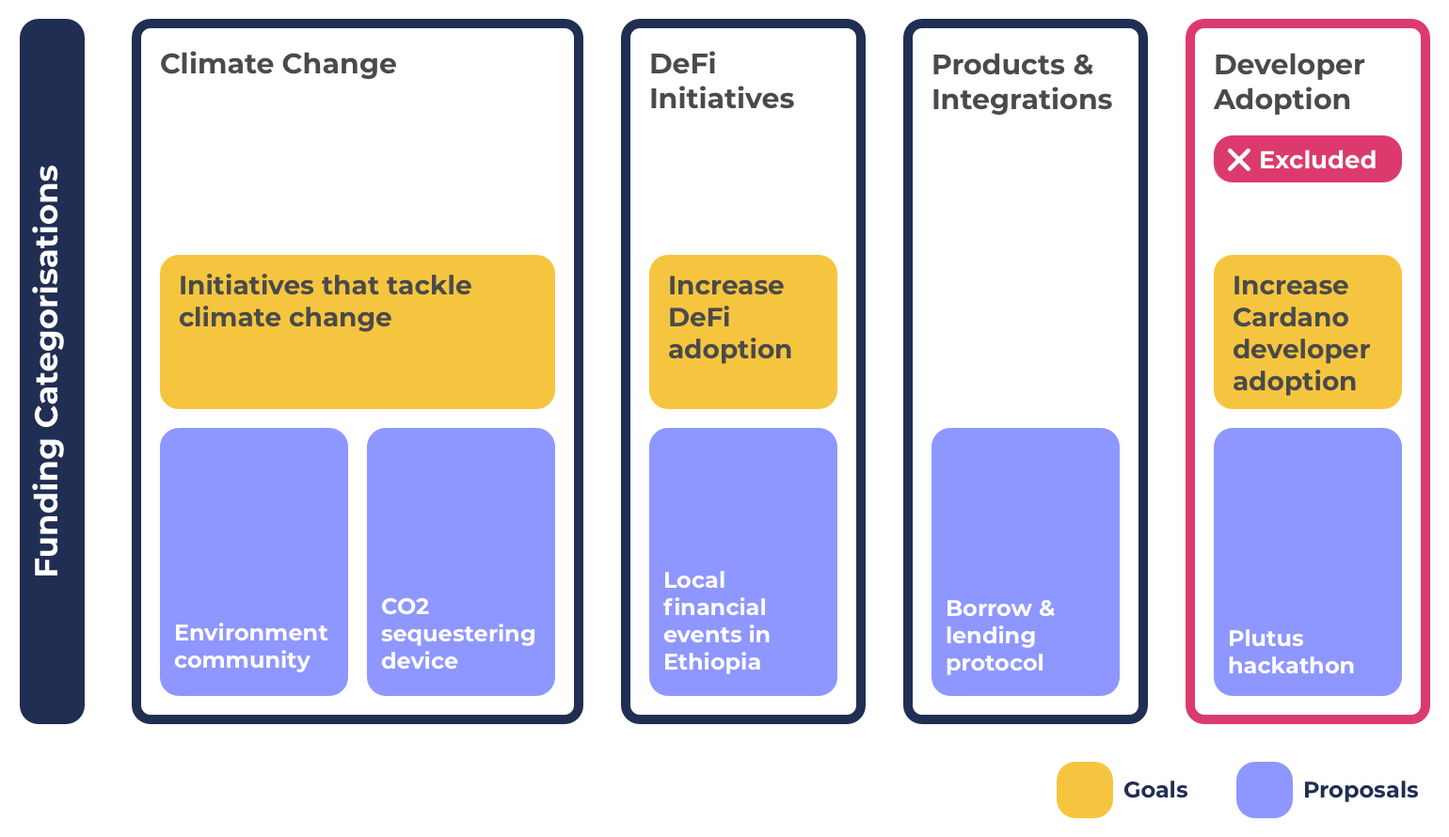
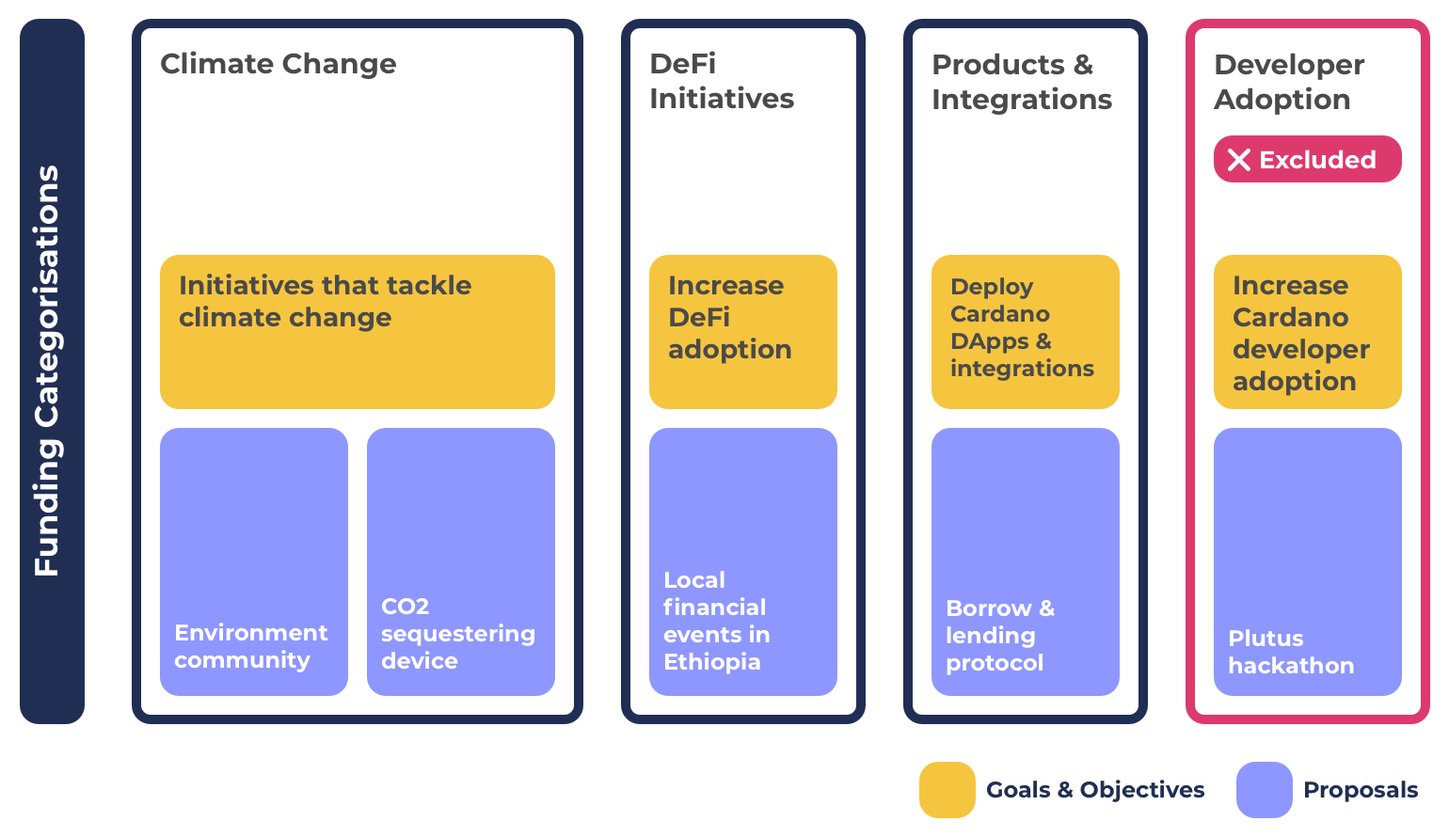
GitBook: [#35] No subject

Changed region(s): [[0.6234, 0.3034, 0.7792, 0.5157], [0.6234, 0.9101, 0.8416, 1.0]]

diff --git a/categorisation-goals-and-objectives/goals-and-objectives-with-challenge-settings.md b/categorisation-goals-and-objectives/goals-and-objectives-with-challenge-settings.md
@@ -6,32 +6,32 @@ description: >-
 
 # Goals & Objectives With Challenge Settings
 
-Challenge settings allows for any form of funding categorisation. This means that categorisations can range from being broad through to specific proposal type groupings or be goal or objective focussed categorisations.
+Challenge settings allows for any form of funding categorisation. This means that categorisations can be cover broad to specific proposal type groupings. They could also be goal or objective focussed categorisations.
 
-The flexibility provided by challenge settings results in multiple problems. Challenge settings fail in promoting categorisation that is simple, efficient, flexible and scalable. The reason these issues exist in challenge settings is that the process promotes [specific](../categorisation-analysis/broad-vs-specific-categorisation.md), [competitive](../categorisation-analysis/inclusive-vs-competitive-categorisation.md) and [changing](../categorisation-analysis/recurring-vs-changing-categorisation.md) categorisation.
+The flexibility provided by challenge settings results in multiple problems. Challenge settings are not effectively at promoting categorisation that is simple, efficient, flexible and scalable. The cause of these issues are due to the challenge setting process promoting [specific](../categorisation-analysis/broad-vs-specific-categorisation.md), [competitive](../categorisation-analysis/inclusive-vs-competitive-categorisation.md) and [changing](../categorisation-analysis/recurring-vs-changing-categorisation.md) categorisation.
 
 
 
 **Challenge settings promotes changing, competitive and specific categorisation**
 
-* **Changing** - Objectives can be completed or increase or decrease in priority each funding round. Objective based categorisation leads to categorisation that is always changing.
-* **Competitive** - There are a large amount of potential objectives that could exist and prioritised by the community. Objectives would need to compete to have access to a fixed amount of funding available.
-* **Specific** - Many objectives are created to solve certain problems or add value to the ecosystem. This leads to having more specific categorisation to target those objectives. This is not true for all objectives, some could also be broad such as having a simple objective of deploying new DApps and integrations on the Cardano blockchain.
+* **Changing** - Objectives can be completed or can increase or decrease in priority each funding round. Objective based categorisation leads to categorisation that is always changing.
+* **Competitive** - There are a large amount of potential goals and objectives that could exist that need to be prioritised by the community. Objectives would need to compete to have access to a fixed amount of funding available.
+* **Specific** - Achieving goals by setting specific objectives helps to solve certain problems and add value to the ecosystem. This approach leads to increasing the number of specific categorisations to target those objectives. This is not true for all categorisations, some could just focus on broad goals. One example could be the goal of deploying new DApps and integrations on the Cardano blockchain.
 
 
 
 **Advantages**
 
-* **Easier proposal comparisons** - By having categorisations focussed on goals or objectives it makes it easier to compare and decide between proposals that all focus on one specific objective. This comparison between proposals with the same goal or objective could also be done in category based funding categorisation and this would be achieved at the view layer by filtering proposals based on the goal or objectives. The only difference is that categories can are larger in scope which means voters would also need to decide to compare and decide on proposals that have different goals or objectives as well.
-* **Guaranteed goal or objective funding** - Goal and objective based categorisations create a guarantee that the selected goal or objectives will have funding distributed to proposals aimed at that specific objective. Although this can be a positive outcome there are also numerous negative situations depending on the proposals that get submitted and their quality and also what proposals are excluded due to the categorisations selected.
+* **Easier proposal comparisons** - By having categorisations focussed on goals or objectives it makes it easier to compare and decide between proposals that all focus on one specific objective. This comparison between proposals with the same goal or objective could also be done in category based funding categorisation and this would be achieved at the view layer by filtering proposals based on the goal or objectives. The only difference is that funding categories are larger in scope which means voters would also need to compare and decide on proposals that have different goals or objectives.
+* **Guaranteed goal or objective funding** - Goal and objective based categorisations create a guarantee that the selected goal or objectives will have funding distributed to proposals aimed at that specific goal or objective. Although this can be a positive outcome there are also numerous negative situations depending on the proposals that get submitted and their quality.
 
 
 
 **Issues**
 
-* **Inflexible** - Funding categorisation that is focussed on goals or objectives is less flexible to sudden changes. Funding categorisation cannot suddenly change midway through a funding round. A new emerging goal or objective during a funding round would have difficulty in supporting proposals relevant to the new goal or objective if proposals could not have been submitted due to the categorisations available.
-* **Restrictive & exclusionary** - There are potentially hundreds of goals and hundreds or thousands of potential objectives that could exist at a given moment. Different values, perspectives and interpretations from the community lead to differences in what those goals and objectives should be and how they could be achieved. There is a limited amount of funding available in each funding round. Goal and objective based funding categorisation can only cater for a number of those goals or objectives which results in giving the voter less proposal options to choose from. Voters would also need to accept the fact that the proposals which can’t be submitted due to this exclusionary approach may actually be more impactful than the ones being allowed due to the goal or objective categorisation mandates. Proposers in an exclusionary funding environment aren’t given the opportunity to present ideas and innovation which may have offered a more compelling idea to the voter.
-* **Increased risks** - Mandates on where funding is made available based on goals or objectives increases the risks of having categorisation where proposals do not turn up to solve those specific objectives. Another bad outcome is having a number of proposals submitted that are of an average to low quality. Some objectives may even have situations where the solutions are not feasible in the short term. In these scenarios funding could have been better directed to other higher quality proposals focussed on different objectives.
+* **Lower flexibility** - Funding categorisation that is focussed on goals or objectives is less flexible to sudden changes. Funding categorisation cannot suddenly change midway through a funding round. A new emerging goal or objective during a funding round would have difficulty in supporting relevant proposals if they could not have been submitted due to the categorisations available. There is also a risk that an objective is achieved midway through a funding round which is an issue as that funding could have been better reallocated if the funding categorisation was more broad focussed and flexible.
+* **More restrictive & exclusionary** - There are potentially hundreds of goals and hundreds or thousands of potential objectives that could exist at a given moment. Different values, perspectives and interpretations from the community lead to differences in what those goals and objectives should be and how they could be achieved. There is a limited amount of funding available in each funding round. Goal and objective based funding categorisation can only cater for a number of those goals or objectives which results in giving the voter less proposal options to choose from. Voters would also need to accept the fact that the proposals which can’t be submitted due to this exclusionary approach may actually be more impactful than the ones being allowed due to the goal or objective categorisation mandates. Proposers in an exclusionary funding environment aren’t given the opportunity to present ideas and innovation which may have offered a more compelling idea to the voter.
+* **Increased risk of poor outcomes** - Mandates on where funding is made available based on goals or objectives increases the risks of having categorisation where proposals do not turn up to solve those specific objectives. Another bad outcome is having a number of proposals submitted that are of an average to low quality. Some objectives may even have situations where the solutions are not feasible in the short term. In these scenarios funding could have been better directed to other higher quality proposals focussed on different objectives.
 * **Higher complexity** - Funding categorisation tied to goal or objective setting means there is a constant need to review ecosystem wide information to create sensible and well informed justifications on which goal and objective based categorisations to suggest and vote for. The more goal and objective based funding categorisations used the less funding that can be distributed between them from a fixed available amount. This massively increases the complexity of determining which categorisations to include and exclude and what budget weightings should be applied to each of the categorisations. Goal and objective based categorisation mean much more effort for governance and stakeholders is needed to manage the process. By attaching funding categorisation to goals and objectives the proposing challenge team must determine a suitable budget weighting or instead the community would need to vote on what budget should be applied. This complexity increases as the number of categorisations increases.
 * **Poor scalability** - Objectives set by the community will be ever changing between funding rounds. Forcing objectives into funding categorisations makes it far harder to scale and automate the categorisations as they are less predictable and not based on usage of the process. Objectives not well understood with historical data mean more manual effort to determine a suitable budget weighting for the categorisation is needed which makes it more difficult to scale effectively.
 

diff --git a/categorisation-goals-and-objectives/goals-and-objectives-with-funding-categories.md b/categorisation-goals-and-objectives/goals-and-objectives-with-funding-categories.md
@@ -25,19 +25,19 @@ Using an [independent goal & objective setting process](independent-goal-and-obj
 **Funding categories promote recurring, inclusive and broad categorisation**
 
 * **Recurring** - Categories based on topic areas or that fulfil a certain function can be defined upfront and used in each funding round. This makes them a suitable choice for recurring categorisation. Categories could still change but only need updating when it is necessary.
-* **Inclusive** - Categories that group proposals by type can more easily be inclusive to all forms of idea and innovation. Funding categories have been designed to be suitable for being an inclusive form of funding categorisation.
+* **Inclusive** - Categories that group proposals by type can more easily be inclusive to all forms of idea and innovation. Funding categories have been designed to be suitable for being an inclusive form of funding categorisation**.**
 * **Broad** - Topic area and function focussed categorisation is well suited to offering broad categorisation that invites multiple proposal types. Categorisation could also be made more specific on what types are included however this comes at an increase cost of complexity around determining budget weighting for each categorisation and makes the categorisation less flexible to dynamic changes.
 
 
 
 **Advantages**
 
-* **Flexible** - Categories are flexible to changing goals and objectives as the categorisation doesn’t specify what must proposals must focus on. This allows the community to update or add new objectives dynamically as they emerge and will help improve the speed in which proposals of higher priority can be identified and receive funding.
+* **Dynamically changing** - Categories are flexible to dynamically changing goals and objectives as the categorisation doesn’t specify what must proposals must focus on. This allows the community to update or add new objectives dynamically at anytime as they emerge. This improves the speed in which proposals of higher priority can be identified and supported in the funding process.
 * **Simple** - Usage of recurring categories means no justification is needed every funding round to decide which categorisations to include. This approach removes the complexity of voters  needing to decide which categorisations to include and exclude in each funding round. Instead voters would use an [independent goal & objective setting process](independent-goal-and-objective-setting-process.md) separate from the funding categorisation process. This makes it far less complex as it would remove the decisions around budget weighting and how to handle the inclusion and exclusion of certain categorisations.
-* **Low stakeholder and governance effort** - Instead of having effort around justifying categorisations, assessing and voting on them every funding round the community would only need to put effort into the budget weightings that go into each category. As an example if the community had a number of objectives to do with improving the developer ecosystem and a number of proposals previously submitted in that categorisation the community would be able to take that information and vote on increasing the budget weighting of the ‘Development & Infrastructure’ category. By separating objective setting from funding categorisation the community reduces the effort involved in justifying and thinking through the ramifications of including and excluding certain categorisations that focus on objectives that can often change quickly.
-* **Efficient** - By using an [independent goal & objective setting process](independent-goal-and-objective-setting-process.md) the community can quickly submit and vote on different goals and objectives in isolation and know that their action won’t cause any negative implications on the funding categorisation process. Allowing the community to do this at their own convenience with low friction makes the goal & objective setting process more efficient for the end user.
-* **Less risky** - Having categories that allow for a range of proposal types with different competing objectives. This makes it less risky for situations where there are no proposals for a given objective or goal turn up or alternatively there is only a number of proposals that are of poor quality. Broader funding categories not focussed on specific goals or objectives will reduce the risk of these situations and give the voter more choice.
-* **Healthy competition with maximum voter options** - It is easy for categories to be inclusive of all forms of idea and innovation. This means the voters can be given the maximum amount of choice and the broad categorisation will help create healthy competition between a number of different proposals.
+* **Lower stakeholder and governance effort** - Instead of having effort around justifying categorisations, assessing and voting on them every funding round the community would only need to put effort into the budget weightings that go into each category. As an example if the community had a number of objectives to do with improving the developer ecosystem and a number of proposals previously submitted in that categorisation the community would be able to take that information and vote on increasing the budget weighting of the ‘Development & Infrastructure’ category. By separating objective setting from funding categorisation the community reduces the effort involved in justifying and thinking through the ramifications of including and excluding certain categorisations that focus on objectives that can often change quickly.
+* **Increases potential engagement** - By using an [independent goal & objective setting process](independent-goal-and-objective-setting-process.md) the community can quickly submit and vote on different goals and objectives in isolation. Their action won’t cause any negative implications on the funding categorisation process and only means sharing their opinion on what is highest priority for them. Allowing the community to do this at their own convenience with low friction makes the goal & objective setting process maximises the opportunity for the community to get engaged with this process if they want to be involved.
+* **Less easy to break** - Having categories that allow for a range of proposal types with different competing objectives. This makes it less risky and easy to break for situations where there are no proposals for a given objective or goal turn up or alternatively there is only a number of proposals that are of poor quality. Broader funding categories not focussed on specific goals or objectives will reduce the risk of these situations and give the voter more choice.
+* **Increases competition between goals & objectives** - Removing goals and objectives outside of funding categorisation makes it easy for categories to be inclusive of all forms of idea and innovation. This means the voters will receive the maximum amount of choice to vote on. Broad categorisations will help create healthy competition between a number of different proposals.
 
 
 

diff --git a/historical-categorisation-analysis/funding-access-for-each-focus-area/README.md b/historical-categorisation-analysis/funding-access-for-each-focus-area/README.md
@@ -1,0 +1,77 @@
+---
+description: >-
+  Funding access for each focus area in previous funding rounds with examples of
+  using funding categories as an alternative
+---
+
+# Funding Access For Each Focus Area
+
+To understand the implications of using certain funding categorisation approaches one useful visualisation is for seeing what amount of funding was available to each of the proposal focus areas in each funding round.
+
+{% content-ref url="methodology-data-and-feedback.md" %}
+[methodology-data-and-feedback.md](methodology-data-and-feedback.md)
+{% endcontent-ref %}
+
+****
+
+### Funding access per focus area each funding round
+
+All of the following examples have a dedicated fund page that include observations on the categorisation for that funding round along with a comparison  with how a roughly equivalent categorisation outcome could have been achieved using funding categories.
+
+
+
+****[**Fund 9**](fund-9.md)
+
+![](<../../.gitbook/assets/fund-9-funding-access (2).png>)
+
+****[**Fund 8**](fund-8.md)
+
+![](../../.gitbook/assets/fund-8-funding-access.png)
+
+****[**Fund 7**](fund-7.md)
+
+![](<../../.gitbook/assets/fund-7-funding-access (2).png>)
+
+### Funding categories examples
+
+The usage of funding categories can achieve the same or better outcomes than the challenge setting approach but with far less complexity and also ensures that a wide range of proposals focus areas always have access to potential funding.
+
+For the following examples we ignore Catalyst contributors and Cardano contributors as these are new funding models that aren't focussed on the normal proposal model. Just comparing proposal based categorisations make this a like for like comparison for the historical examples. Nurturing Ideas & Teams is also ignored as it accepts all forms of idea and innovation so is not important for this comparison.
+
+
+
+**Equally balanced example**
+
+This can be achieved by splitting funding access into four 25% allocations for the each of the main categories of community & outreach, products & integrations, governance & identity and development & infrastructure.
+
+![](../../.gitbook/assets/categories-funding-access-example.png)
+
+**Development & Infrastructure focussed**
+
+What if the community thought the Development & Infrastructure categorisation of proposal focus areas needs more funding directed to that area as a priority and less on Community & Outreach and slightly less on Governance & Identity? To achieve this with funding categories the community would just need to vote on a higher percentage value for the Development & Infrastructure category and reduce the weighting in the other categories. For this example the community would only need to vote with four different values that add up to 100 to indicate the budget weighting preference. The aggregate of every voters budget weighting would determine the final weightings.
+
+![](../../.gitbook/assets/categories-funding-access-example-development.png)
+
+### Analysis
+
+**Higher complexity from overlapping categorisations**
+
+There are a number of examples where there are a mix of similar broad categorisations such as [Developer Ecosystem](https://app.ideascale.com/t/UM5UZBraj) and [Open Source Development Ecosystem](https://app.ideascale.com/t/UM5UZBqsx) and also specific categorisations such as [Gamers On - Chained](https://app.ideascale.com/t/UM5UZBqeS) which are a subset of broad categorisations such as [DApps and Integrations](https://app.ideascale.com/t/UM5UZBrBL). This makes the process more complex for proposers as they must determine where to put their proposal to maximise the chance of being funded. Assessors must determine whether proposals should or should not be in certain categorisations and voters in cases will need to look in numerous categorisations to compare similar proposal focus areas. One way of trying to resolve this complexity is to add rules and guidance as to how categorisations should be used in a number of events however this simply just adds extra unnecessary complexity.
+
+
+
+**Difficult to easily determine what proposals should be included**
+
+As the challenges are changing each round it became clear there is a constant complexity of working out which proposal focus areas can fit into which categorisations. It helps to highlight the importance of considering the trade offs of using recurring vs changing categorisation.
+
+
+
+**Well defined categories make it easier to extract useful statistics**
+
+The categorisations made it more difficult to create accurate percentages that would provide higher confidence as to what areas funding is being distributed towards. This again helped to highlight the benefits of using recurring categorisation. Using well defined categorisations would be effective in making it easier to see exactly what amount of funding is available for each proposal focus area. This allows the community to track over time to determine both what funding was available to different focus area of proposal and also what funded was actually distributed to each focus area. This data would be useful for further informing better budget weighting decisions.
+
+
+
+**Current challenge setting approach requires a lot of interpretation**
+
+To give an example of the interpretation that is needed one example could be that the "Cross collaboration" challenge states: "Number of events / workshops / sessions arranged with other communities" as a metric to measure. As hackathons are a form of event, proposers could interpret this as it being included in the categorisation. Another potential interpretation could be that educational resources could be included as well as they help facilitate similar outcomes as workshops. These examples are simple but important to highlight the added complexities of having changing categorisation where it leads to increased confusion when categorisations require more interpretation.

diff --git a/historical-categorisation-analysis/funding-access-for-each-focus-area/methodology-data-and-feedback.md b/historical-categorisation-analysis/funding-access-for-each-focus-area/methodology-data-and-feedback.md
@@ -1,0 +1,80 @@
+---
+description: Documentation for how the funding access percentages were derived
+---
+
+# Methodology, Data & Feedback
+
+Funding is split between a number of categorisations that currently get defined each funding round. Each categorisation represents a percentage of the total funding amount available. Each proposal can have funding access ranging from none, partial through to full access within each of those categorisations.
+
+
+
+### **Data**
+
+All the tagging data that was created for use in the images can be found here:
+
+[https://docs.google.com/spreadsheets/d/1XzlUhgkzE5NGBLa55wqJlgfm8YES3kJ6t5KgZAggtmE](https://docs.google.com/spreadsheets/d/1XzlUhgkzE5NGBLa55wqJlgfm8YES3kJ6t5KgZAggtmE/edit)
+
+****
+
+### **Feedback**
+
+Please provide any feedback or suggest any changes or improvements in the Telegram group -[https://t.me/catalystfundingcategories](https://t.me/catalystfundingcategories)
+
+
+
+### Approach
+
+**1. Tag proposal focus areas with a suitable colour depending on the access to funding**
+
+For each proposal focus area an estimate is given for the amount of funding access it has in each of the categorisations. These are estimates and are colour coded based on the following:
+
+* Red: Little to none
+* Orange: Low
+* Yellow: Moderate
+* Green: High
+
+
+
+**2. Add percentage value based on rough access**
+
+Based on the rough access guide above the following percentages are applied. As an example for the below percentages, if one categorisation had 5% total allocation and a proposal focus area had low access it would have 25% of that allocation 5% which would be 1.25% that would contribute towards the total funding access percentage for that proposal focus area. Percentage of categorisation funding access based on rough access tag given:
+
+* Red: 0%
+* Orange: 25%
+* Yellow: 50%
+* Green: 100%
+
+
+
+**3. Sum the percentage values for each proposal focus area from each categorisation to get a total funding access percentage across the total fund amount**
+
+The total access to funding for a proposal focus area is created by combining all the percentage values of access a proposal focus area has to each categorisation. The following results then determine the final colour for funding access:
+
+* Red: Little to none, 0-5%
+* Orange: Low, 5-15%
+* Yellow: Moderate, 15-25%
+* Green: High, 25-50%
+* Dark Blue: Very High, 50%+
+
+
+
+### Rough estimations
+
+The first step of tagging proposal focus areas with a suitable colour depending on the access to funding are rough estimations.
+
+
+
+**Categorisation interpretation**
+
+Challenge settings result in categorisations that often change in every funding round. This results in a collection of challenges that are worded differently. Some have limited information where as others may be more detailed. Some may be vague in specifying what should be included and others more precise. In many instances this can lead to complexities around interpretation such as follows:
+
+* [Cross-Chain Collaboration](https://app.ideascale.com/t/UM5UZBunq) - Cross chain collaboration looks to bridge over projects from other ecosystems to Cardano as encourage new redeployments onto Cardano. Cardano has native projects building only on Cardano, cross chain projects deploying on multiple chains and cross chains projects looking to migrate over to Cardano. Due to this wide range of project backgrounds that could exist the ones which are cross chain proposals only represent a subset of the proposal focus areas. For instance cross chain identity tools will only represent some of the proposal focus areas for ‘Identity tools & software’ as many of the identity tools & software can be built on Cardano itself without first being built elsewhere.
+* [Grow Africa, Grow Cardano](https://app.ideascale.com/t/UM5UZBuk1) - Location focussed challenges such as grow Africa, grow latin America or grow India result in a situation where only a subset of proposal focus areas can be submitted. These categorisations welcome any idea that is focussed on solutions and initiatives in that given location. This means that the categorisation is broad in the terms of the proposal focus areas however the location focus also means only a subset of the total amount could be submitted. As an example any efforts for ‘Government outreach & engagement’ related proposals would only be able to be submitted for countries within Africa rather than other locations.
+
+
+
+**Estimation of proposal type coverage**
+
+When trying to determine what percentage of the proposal type is covered within a given categorisation there is a need to consider the breadth of what types of proposals could exist under the umbrella of that proposal type. An example of this includes:
+
+* Hackathons - Hackathons can exist for Plutus for core infrastructure, on top of community infrastructure solutions such as an API to build on their solutions or to integrate other software solutions that use Cardano. Hackathons can also be just for idea flow and trying out new ideas. Giving a high percentage for the hackathon proposal type for a categorisation means that all these different ideas should be viable. If they are not then a lower percentage should be given. As an example for [Cross-Chain Collaboration](https://app.ideascale.com/t/UM5UZBunq) the hackathons would be a subset of all potential hackathons as they would need to focus on the cross chain focus.

diff --git a/historical-categorisation-analysis/funding-access-for-each-focus-area/fund-8.md b/historical-categorisation-analysis/funding-access-for-each-focus-area/fund-8.md
@@ -1,16 +1,16 @@
 ---
-description: Fund 8 proposal types access to funding
+description: Fund 8 funding access for different focus areas
 ---
 
 # Fund 8
 
-### Funding access per proposal type
+### Funding access for different focus areas
 
-![](../../.gitbook/assets/fund-8-funding-access.png)
+![](<../../.gitbook/assets/fund-8-funding-access (1).png>)
 
 ### **Funding categories equivalent**
 
-After reviewing the [data covered in the methodology](methodology.md) for fund 8 a similar funding categorisation outcome could have been achieved with funding categories as an alternative categorisation approach by applying the following budget weightings:
+After reviewing the [data covered in the methodology](methodology-data-and-feedback.md) for fund 8 a similar funding categorisation outcome could have been achieved with funding categories as an alternative categorisation approach by applying the following budget weightings:
 
 * **Community & Outreach** - 15%
 * **Products & Integrations** - 32%
@@ -29,7 +29,7 @@ There were 22 categorisations in fund 8. This made it more difficult to understa
 
 **Overlapping categorisations**
 
-In many cases across the categorisations the proposal types could be submitted in multiple categorisations. This adds complexity and an amount of game theory of where proposals should submit their proposals to maximise their chance of success. Allowing for this behaviour does not mean the best proposals will be funded and can lead to exploitation of unused categorisations.
+In many cases across the categorisations certain types of proposals could be submitted in multiple categorisations. This adds complexity and an amount of game theory of where proposals should submit their proposals to maximise their chance of success. Allowing for this behaviour does not mean the best proposals will be funded and can lead to exploitation of unused categorisations.
 
 
 

diff --git a/historical-categorisation-analysis/funding-access-for-each-focus-area/fund-7.md b/historical-categorisation-analysis/funding-access-for-each-focus-area/fund-7.md
@@ -1,16 +1,16 @@
 ---
-description: Fund 7 proposal types access to funding
+description: Fund 7 funding access for different focus areas
 ---
 
 # Fund 7
 
-### Funding access per proposal type
+### Funding access for different focus areas
 
-![](../../.gitbook/assets/fund-7-funding-access.png)
+![](<../../.gitbook/assets/fund-7-funding-access (1).png>)
 
 ### **Funding categories equivalent**
 
-After reviewing the [data covered in the methodology](methodology.md) for fund 7 a similar funding categorisation outcome could have been achieved with funding categories as an alternative categorisation approach by applying the following budget weightings:
+After reviewing the [data covered in the methodology](methodology-data-and-feedback.md) for fund 7 a similar funding categorisation outcome could have been achieved with funding categories as an alternative categorisation approach by applying the following budget weightings:
 
 * **Community & Outreach** - 15%
 * **Products & Integrations** - 30%
@@ -23,7 +23,7 @@ After reviewing the [data covered in the methodology](methodology.md) for fund 7
 
 **Restrictive funding access**
 
-Fund 7 had far much more limiting access to funding for a number of proposal types. The funding categories equivalent achieves more access for all of the proposal type areas to a fairly significant degree. This could have helped with both competition and better variation of the proposals submitted to give the voter more options to choose from.
+Fund 7 had far much more limiting access to funding for a number of proposal focus areas. The funding categories equivalent achieves more access for all of the proposal focus areas to a fairly significant degree. This could have helped with both competition and better variation of the proposals submitted to give the voter more options to choose from.
 
 
 

diff --git a/SUMMARY.md b/SUMMARY.md
@@ -40,11 +40,11 @@
 
 ## Historical Categorisation Analysis
 
-* [Funding Access Per Proposal Type](historical-categorisation-analysis/funding-access-per-proposal-type/README.md)
-  * [Methodology, Data & Feedback](historical-categorisation-analysis/funding-access-per-proposal-type/methodology.md)
-  * [Fund 9](historical-categorisation-analysis/funding-access-per-proposal-type/fund-9.md)
-  * [Fund 8](historical-categorisation-analysis/funding-access-per-proposal-type/fund-8.md)
-  * [Fund 7](historical-categorisation-analysis/funding-access-per-proposal-type/fund-7.md)
+* [Funding Access For Each Focus Area](historical-categorisation-analysis/funding-access-for-each-focus-area/README.md)
+  * [Methodology, Data & Feedback](historical-categorisation-analysis/funding-access-for-each-focus-area/methodology-data-and-feedback.md)
+  * [Fund 9](historical-categorisation-analysis/funding-access-for-each-focus-area/fund-9.md)
+  * [Fund 8](historical-categorisation-analysis/funding-access-for-each-focus-area/fund-8.md)
+  * [Fund 7](historical-categorisation-analysis/funding-access-for-each-focus-area/fund-7.md)
 * [Categories & Previous Categorisations](historical-categorisation-analysis/categories-and-previous-categorisations.md)
 * [Previous Categorisations](historical-categorisation-analysis/previous-categorisations/README.md)
   * [All Previous Challenge Settings](historical-categorisation-analysis/previous-categorisations/all-previous-challenge-settings.md)

diff --git a/historical-categorisation-analysis/funding-access-for-each-focus-area/fund-9.md b/historical-categorisation-analysis/funding-access-for-each-focus-area/fund-9.md
@@ -1,16 +1,16 @@
 ---
-description: Fund 9 proposal types access to funding
+description: Fund 9 funding access for different focus areas
 ---
 
 # Fund 9
 
-### Funding access per proposal type
+### Funding access for different focus areas
 
-![](../../.gitbook/assets/fund-9-funding-access.png)
+![](<../../.gitbook/assets/fund-9-funding-access (2).png>)
 
 ### **Funding categories equivalent**
 
-After reviewing the [data covered in the methodology](methodology.md) for fund 9 a similar funding categorisation outcome could have been achieved with funding categories as an alternative categorisation approach by applying the following budget weightings:
+After reviewing the [data covered in the methodology](methodology-data-and-feedback.md) for fund 9 a similar funding categorisation outcome could have been achieved with funding categories as an alternative categorisation approach by applying the following budget weightings:
 
 * **Community & Outreach** - 5%
 * **Products & Integrations** - 70%
